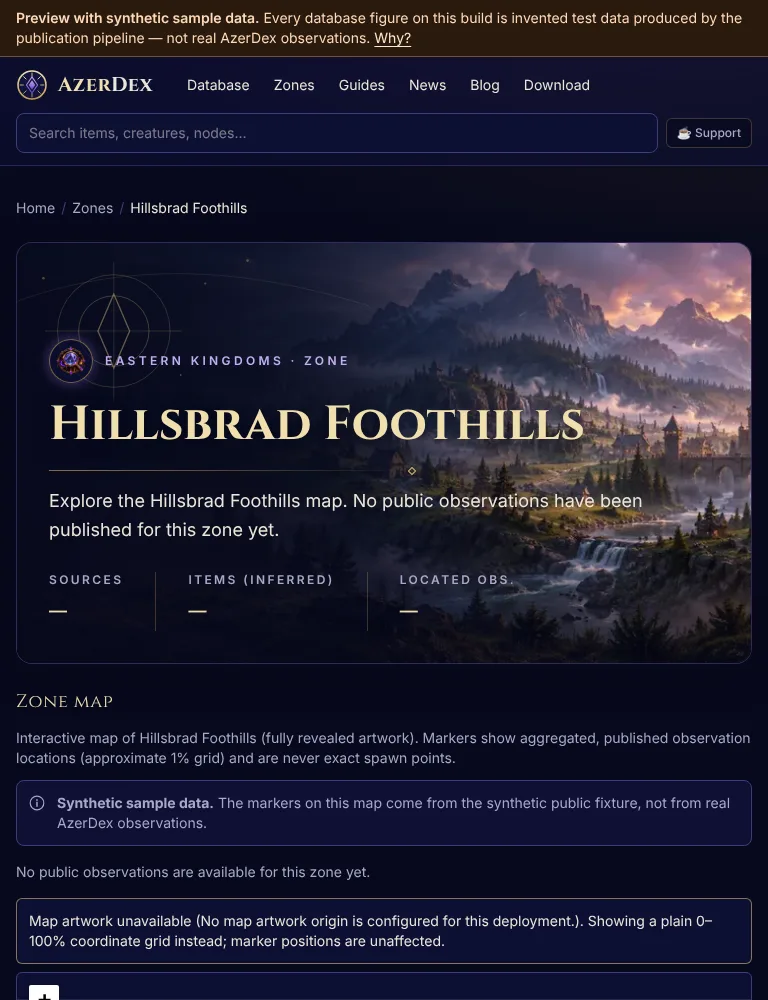
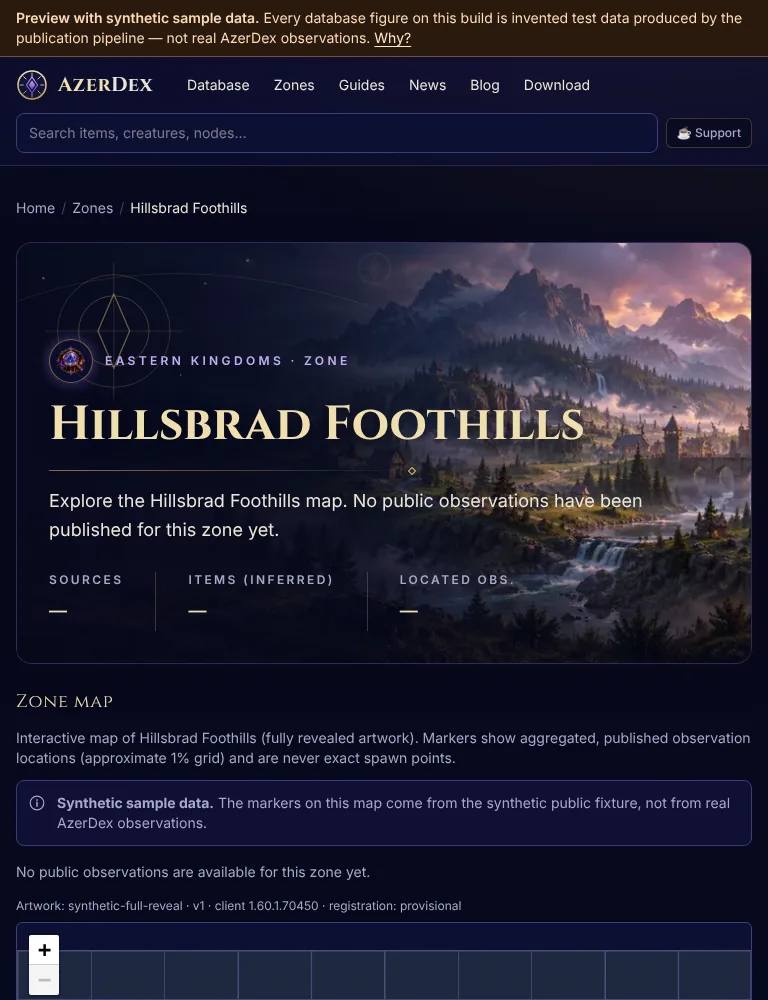
web: watermark published zone hero derivatives, add hero+atlas CDN integration spec, provenance and smoke-test docs
Claude-Session: https://claude.ai/code/session_01WYuckgvdrmJB8RGnqoM6Bg

Changed region(s): [[0.0, 0.899, 1.0, 1.0]]

diff --git a/web/tests/zone-maps/zone-hero.spec.ts b/web/tests/zone-maps/zone-hero.spec.ts
@@ -1,0 +1,93 @@
+// Zone Cinematic Hero + atlas map through the REAL browser integration path (CDN host mapped to a local HTTPS server, CORS/CSP enforced
+// by Chromium). Plain Playwright test for the same reason as zone-maps.spec.ts (no preflight-inducing extra headers).
+import { expect, test, type Page } from "@playwright/test";
+import { settle } from "../e2e/maps-helpers";
+import { startCdn, type Cdn } from "./cdn-server";
+
+let cdn: Cdn;
+test.beforeAll(async () => { cdn = await startCdn(); });
+test.afterAll(async () => { await cdn.close(); });
+test.beforeEach(() => { cdn.stripCors = false; cdn.down = false; cdn.seen.length = 0; });
+
+const hero = (page: Page) => page.getByTestId("zone-hero");
+
+/** Every request the page made, with status, so "no broken image requests" is evidence, not an assumption. */
+function track(page: Page) {
+  const bad: string[] = [];
+  const all: { url: string; status: number }[] = [];
+  page.on("response", (r) => { all.push({ url: r.url(), status: r.status() }); if (r.status() >= 400 && r.request().resourceType() === "image") bad.push(`${r.status()} ${r.url()}`); });
+  page.on("requestfailed", (r) => { if (r.resourceType() === "image") bad.push(`failed ${r.url()}`); });
+  return { bad, all };
+}
+
+async function mapReady(page: Page) {
+  await page.getByTestId("zone-map-section").scrollIntoViewIfNeeded();
+  await page.getByTestId("zone-map").waitFor({ timeout: 20_000 });
+  await page.waitForFunction(() => document.querySelector("[data-testid=zone-map]")?.getAttribute("data-ready") === "true");
+  await page.waitForFunction(() => ((document.querySelector(".leaflet-image-layer") as HTMLImageElement | null)?.naturalWidth ?? 0) > 100);
+  await settle(page);
+}
+
+test.describe("zone hero + atlas map (synthetic CDN, real browser CORS/CSP)", () => {
+  test("Hillsbrad Foothills (1424): cinematic hero, no uiMapID, continent label, real map loads from the CDN", async ({ page }) => {
+    const t = track(page);
+    await page.goto("/zone/1424");
+    await expect(page.getByRole("heading", { level: 1 })).toHaveText("Hillsbrad Foothills");
+    await expect(hero(page)).toHaveAttribute("data-artwork", "cinematic");
+    await expect(hero(page)).toContainText("Eastern Kingdoms · Zone");
+    await expect(hero(page)).not.toContainText(/uiMapID|1424/);
+    // atlas-only zone: no published figures -> en dash, never an invented 0
+    const dd = hero(page).locator("dd");
+    await expect(dd).toHaveCount(3);
+    for (const v of await dd.allTextContents()) expect(v).toMatch(/^–Not available$/);
+    // hero image: same origin, decoded, a WebP rendition (not the atlas map)
+    const img = hero(page).locator("img[fetchpriority=high]");
+    await expect.poll(() => img.evaluate((i: HTMLImageElement) => i.complete && i.naturalWidth)).toBeGreaterThan(0);
+    expect(await img.evaluate((i: HTMLImageElement) => i.currentSrc)).toMatch(/\/zones\/hero\/1424-hillsbrad-foothills-.*\.webp$/);
+    // the Zone Map itself is unaffected: manifest + image from the CDN with HTTP 200, no fallback
+    await mapReady(page);
+    await expect(page.getByTestId("map-fallback")).toHaveCount(0);
+    const forZone = t.all.filter((e) => e.url.includes("/forever/1424/"));
+    expect(forZone.some((e) => e.url.endsWith("/manifest.json") && e.status === 200)).toBe(true);
+    expect(forZone.some((e) => /\.(png|webp)$/.test(e.url) && e.status === 200)).toBe(true);
+    expect(t.bad, "no broken image requests").toEqual([]);
+  });
+
+  test("a second zone with an available atlas map and no cinematic artwork (1426): map-layer hero, map loads, no broken images", async ({ page }) => {
+    const t = track(page);
+    await page.goto("/zone/1426");
+    await expect(hero(page)).toHaveAttribute("data-artwork", "map");
+    await expect(hero(page)).not.toContainText(/uiMapID|1426/);
+    await mapReady(page);
+    await expect(page.getByTestId("map-fallback")).toHaveCount(0);
+    expect(t.bad, "no broken image requests").toEqual([]);
+  });
+
+  test("observed zone (1420): hero stats are the read-model figures, markers/map unchanged", async ({ page }) => {
+    await page.goto("/zone/1420");
+    await expect(hero(page)).toContainText("Eastern Kingdoms · Zone");
+    const values = await hero(page).locator("dd").allTextContents();
+    expect(values.every((v) => /^[\d,]+$/.test(v))).toBe(true);
+    expect(values.map((v) => Number(v.replace(/,/g, "")))).toEqual([14, expect.any(Number), 1648]);
+    await mapReady(page);
+    await page.locator('button[data-mode="markers"]').click();
+    expect(await page.locator(".leaflet-marker-icon[data-x]").count()).toBeGreaterThan(0);
+  });
+
+  test("genuinely unavailable CDN assets are NOT hidden: the map says so, the hero still renders from its own artwork", async ({ page }) => {
+    cdn.down = true;
+    await page.goto("/zone/1424");
+    await page.getByTestId("zone-map-section").scrollIntoViewIfNeeded();
+    await expect(page.getByTestId("map-fallback")).toContainText("Map artwork unavailable");
+    await expect(hero(page)).toHaveAttribute("data-artwork", "cinematic");
+    await expect(hero(page).locator("img[fetchpriority=high]")).toBeVisible();
+  });
+
+  test("hero fallback: a zone without cinematic art and with a broken CDN still shows a complete hero (vector backdrop)", async ({ page }) => {
+    cdn.down = true;
+    await page.goto("/zone/1426");
+    await expect(page.getByRole("heading", { level: 1 })).toBeVisible();
+    await expect(hero(page).locator("svg").first()).toBeVisible(); // ArcaneSurveyBanner is always underneath
+    await expect(hero(page).locator("dd")).toHaveCount(3);
+  });
+});

diff --git a/web/tests/unit/zone-artwork.test.ts b/web/tests/unit/zone-artwork.test.ts
@@ -1,4 +1,4 @@
-import { existsSync } from "node:fs";
+import { existsSync, readdirSync } from "node:fs";
 import { join } from "node:path";
 import { describe, expect, it } from "vitest";
 import type { AtlasMap } from "@/lib/maps/atlas/schema";
@@ -36,5 +36,14 @@ describe("zone artwork resolution", () => {
 
   it("never matches inherited object keys", () => {
     expect(resolveZoneArtwork(Number("constructor")).kind).toBe("fallback");
+  });
+});
+
+describe("published hero artwork hygiene", () => {
+  it("serves only the registered derivatives: no master/source/original files under public/zones/hero", () => {
+    const files = readdirSync(join(PUBLIC, "zones/hero"));
+    const registered = new Set(Object.values(CINEMATIC_ZONE_ARTWORK).flatMap((a) => [...a.desktop, ...a.mobile].map((s) => s.src.split("/").pop()!)));
+    expect(files.sort()).toEqual([...registered].sort());
+    for (const f of files) expect(f).not.toMatch(/source|master|original|raw/i);
   });
 });

diff --git a/docs/azerdex-hero-art/provenance.md b/docs/azerdex-hero-art/provenance.md
@@ -235,10 +235,51 @@ been asserted).
 
 ## Zone cinematic hero artwork (Hillsbrad Foothills, uiMapID 1424)
 
-`web/public/zones/hero/1424-hillsbrad-foothills-{1280,2000,mobile-600,mobile-900}.webp` are renditions of one owner-supplied
-panorama (2000x667, no baked-in text or UI), supplied to this session on 2026-10-21 for the Cinematic Zone Hero. Same status as
-the entries above: owner-supplied and approved for the project, subject to normal IP review; this record is the owner's attestation,
-not an independent verification of origin. Open points for that review: the image shows generic heraldic banners (lion crest) and a
-castle/bridge vista; confirm it is not a reproduction of a specific Blizzard location or mark. No AzerDex watermark has been embedded
-yet (the hero README's step 2 applies to the homepage hero set; decide whether this set needs it). The unmodified original is not
-stored in the repository. The existing atlas map artwork for the zone is untouched.
+**What it is.** One panorama (2000x667, no text/UI), supplied to the project on 2026-10-21 and used for the Cinematic Zone Hero.
+Per the repository owner it is AI-generated, owner-supplied artwork (not Blizzard promotional art, a game screenshot or an extracted
+game asset). **That is the owner's attestation, recorded here; it is not an independent verification of the tool, the date, or the
+absence of third-party material, and it is not legal clearance.** The existing atlas map artwork for the zone is untouched.
+
+**Private master (not in this repository).** The as-received file (WebP, 2000x667) is kept only outside the repository.
[1 lines of base64/hex data omitted]
+generator output (likely PNG) as the faithful record, as for the three homepage images above.
+
+**Published derivatives (public, watermarked)** - `web/public/zones/hero/`, all produced from the master with the AzerDex watermark
+composited into the pixels *before* any resize/crop (Pillow, WebP q78 method 6, EXIF/XMP not carried over):
+
+| File | Bytes | SHA-256 |
+| --- | --- | --- |
+| `1424-hillsbrad-foothills-2000.webp` (2000x667) | 103,602 | `fbc70e48...de07` |
+| `1424-hillsbrad-foothills-1280.webp` (1280x427) | 56,890 | `9dc58eb3...e880` |
+| `1424-hillsbrad-foothills-mobile-900.webp` (900x484, crop x760-2000) | 57,650 | `cc87be9a...2e72` |
+| `1424-hillsbrad-foothills-mobile-600.webp` (600x323, same crop) | 30,614 | `50e481ad...91d2` |
+
+**Watermark (same convention as the homepage hero set).** The AzerDex compass/rune emblem from `web/public/icon.svg` (disc fill removed,
+single flat tint `#e8cf8f`), 17% opacity (the approved 12-18% band), 56 px (2.8% of the 2000 px width), centred at (985, 40) of the
+master - a calm dark cloud area above the mountains, away from the headline, the stats and the right-hand focal point (castle). The
+placement was checked on the final hero at desktop (faintly visible top centre-left, not competing with the scene) and the mobile
+crop (the mark is inside the downloadable file; the phone cover-crop of the hero happens to trim it from view). No zone name,
+statistic or other UI is embedded. The first attempt (on the mountain peak) was rejected: too busy a background.
+
+**Exposure that already happened - read this.** The first commit of PR #93 (`f3216e2`) briefly contained UNWATERMARKED derivatives of
+this image (2000 px and 1280 px, plus the phone crops) under `web/public/zones/hero/`, which Vercel served from that PR's preview
+deployments until the watermarked files replaced them. They remain in the git history of the PR branch and, until the preview
+deployments are deleted, at their deployment-specific URLs. Same class of residual exposure as "Residual git-history exposure" above:
+no history rewrite was performed; the recommended mitigation is a **squash merge** (so the base branch never contains them) and
+deleting the superseded preview deployments. The repository is public, so copies may exist outside our control. The earlier
+documentation screenshots (also unwatermarked renders) were replaced by watermarked ones; they too persist in that commit.
+
+**Focused visual review (heraldry / Blizzard-specific elements).** Method: direct inspection of the full image and 2x crops of every
+banner, looking for logos/wordmarks, text, recognisable named-character likenesses and exact reproductions of a specific location.
+- No logo, wordmark, text or character likeness found.
+- **Banners** (left: x~60-260, y~170-440; right edge: x~1860-2000, y~380-600 of the 2000x667 master): a gold lion rampant on a blue
+  heater shield with gold border. A lion rampant is generic, long-standing heraldry and this is not the Stormwind lion-head emblem as
+  far as visual comparison without game assets can tell. **Residual risk:** gold-lion-on-blue is the general colour/charge pairing
+  associated with the Alliance/Stormwind visual identity, and Hillsbrad is an Alliance-contested zone, so a reviewer could read it as
+  evocative of that identity. Not judged to be an identifiable reproduction; not cleared either. Owner decision: keep, or
+  re-generate the banners with a different charge/tincture (it would need a new approved image).
+- **Castle/bridge/waterfall vista** (right third): generic fantasy architecture; no claim is made about resemblance to any specific
+  in-game location (not compared against game assets).
+- Not independently verified: AI-generator terms/output rights, and training-data provenance.
+
+**Status: owner-supplied and visually approved; NOT legally cleared. Open items: heraldry decision above, preview-deployment cleanup.**

diff --git a/docs/web/zone-cinematic-hero.md b/docs/web/zone-cinematic-hero.md
@@ -25,6 +25,27 @@ shows an en dash with a screen-reader "Not available" - nothing is invented or d
 
 Hillsbrad Foothills is `1424` (`1415` is the Eastern Kingdoms continent map).
 
+Published hero files must be **watermarked derivatives only**; never commit a master/source file under `web/public/` (guarded by
+`tests/unit/zone-artwork.test.ts`). Method and the private master's hash: `docs/azerdex-hero-art/provenance.md`.
+
+## "Map artwork unavailable" - what it means (smoke-test findings, 2026-10-21)
+The notice in `ZoneMap` appears when the map cannot get its manifest/image (`ZoneMap.tsx`). Classification of what was seen:
+1. **Local/synthetic preview (cause of the PR screenshots):** the local build had no `NEXT_PUBLIC_AZERDEX_ASSET_BASE_URL`, so no https
+   artwork origin is configured and the map says so ("No map artwork origin is configured for this deployment") - by design.
+   Fixture limitation, not a product defect. Built with the origin and the synthetic CDN the map loads (screenshot
+   `hillsbrad-desktop-map-synthetic-cdn.webp`).
+2. **PR #93 Vercel preview** (publication preview, synthetic sample data): `AZERDEX_ZONE_MAPS` is not set on it, so `/zone/1424`
+   (an atlas-only zone) answers 404 there - the documented gate, not a regression. Zones with synthetic observations render the hero.
+3. **Actual beta deployment** (`web/azerdex-beta` @ `6b33ebe`, real published data, deployment `dpl_J6SBoiSe...`): server-rendered
+   `/zone/1424` carries `data-artwork="available"`, `assetBase=https://azerdex-assets.pages.dev`, `version=v1`, catalog size 1002x668
+   and a CSP allowing exactly that origin in `img-src`/`connect-src`. **Not verified from this environment:** the actual HTTP
+   response of the CDN files and the in-browser image render, because this sandbox cannot reach `azerdex-assets.pages.dev`
+   (proxy 403 / DNS failure). Run once from an unrestricted machine:
+   `python scripts/map-atlas/atlas.py verify-remote --base-url https://azerdex-assets.pages.dev --dist <approved dist>` and open
+   `https://beta.azerdex.com/zone/1424` and `/zone/1420` (network tab: manifest + image HTTP 200, no CSP/CORS errors).
+Automated evidence of the integration path (real Chromium, CDN host mapped to a local HTTPS server, CORS and CSP enforced):
+`tests/zone-maps/zone-hero.spec.ts` (1424, 1426, 1420; CDN outage is surfaced, not hidden).
+
 ## Accessibility / motion
 Artwork is `alt=""` + `aria-hidden`; the `<section>` is labelled by the `h1`; stats are a `<dl>`. Text sits on dark gradient layers
 (gold-300/parchment on ink-950). No animation is used, so `prefers-reduced-motion` needs no special casing.
